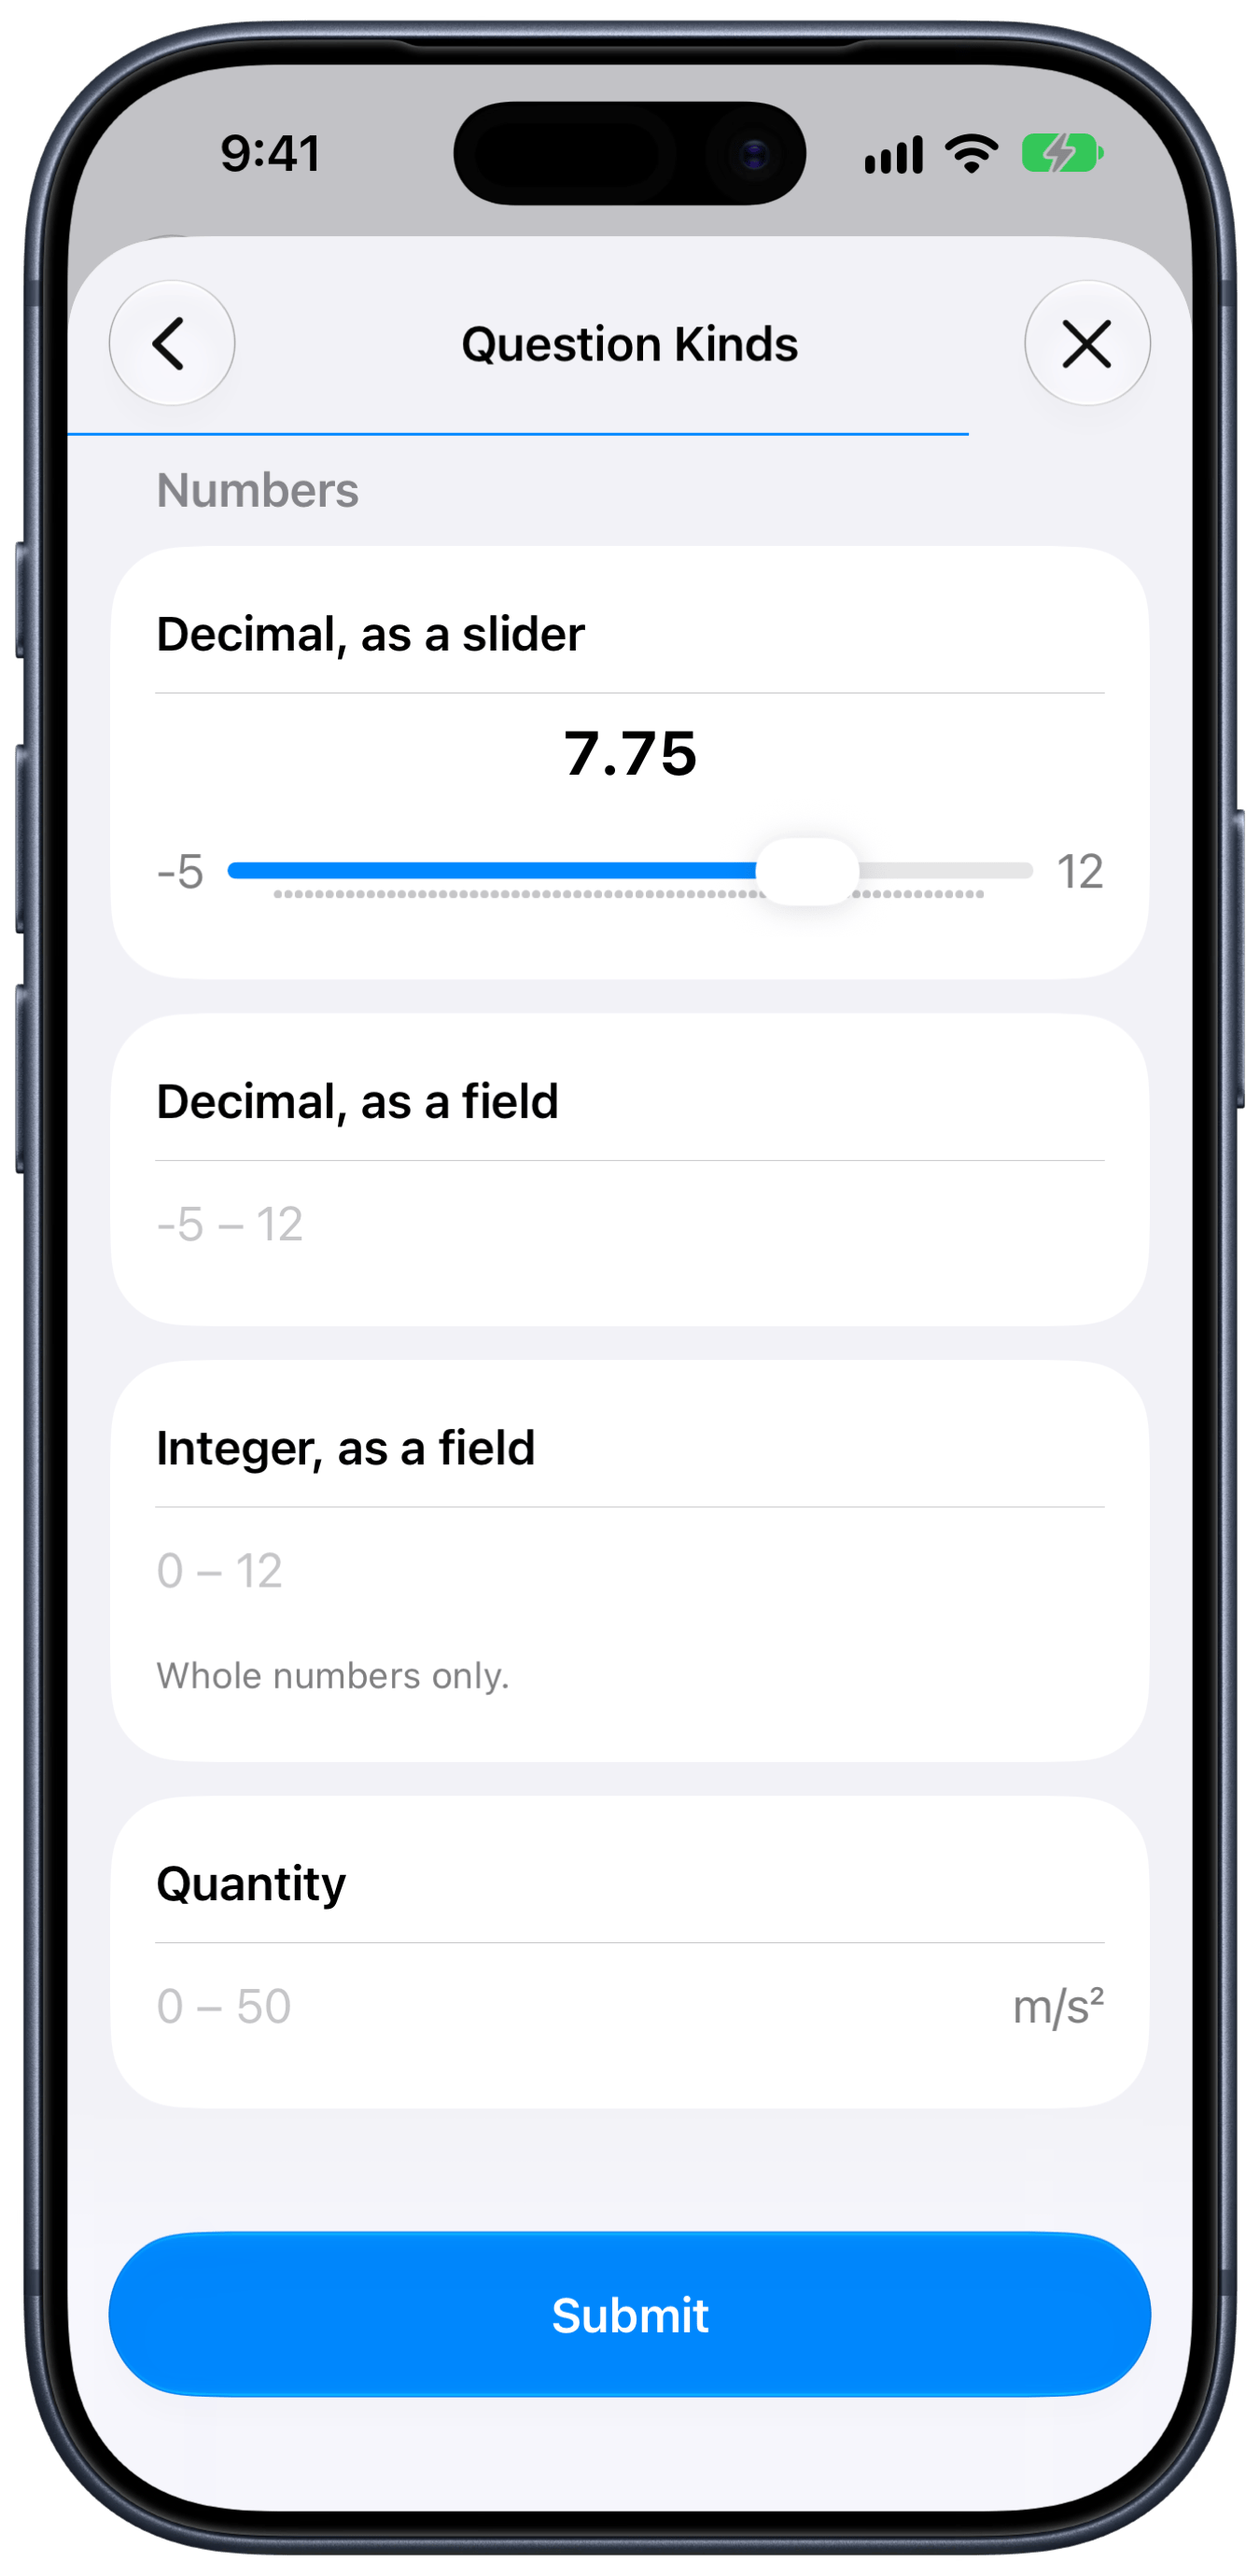
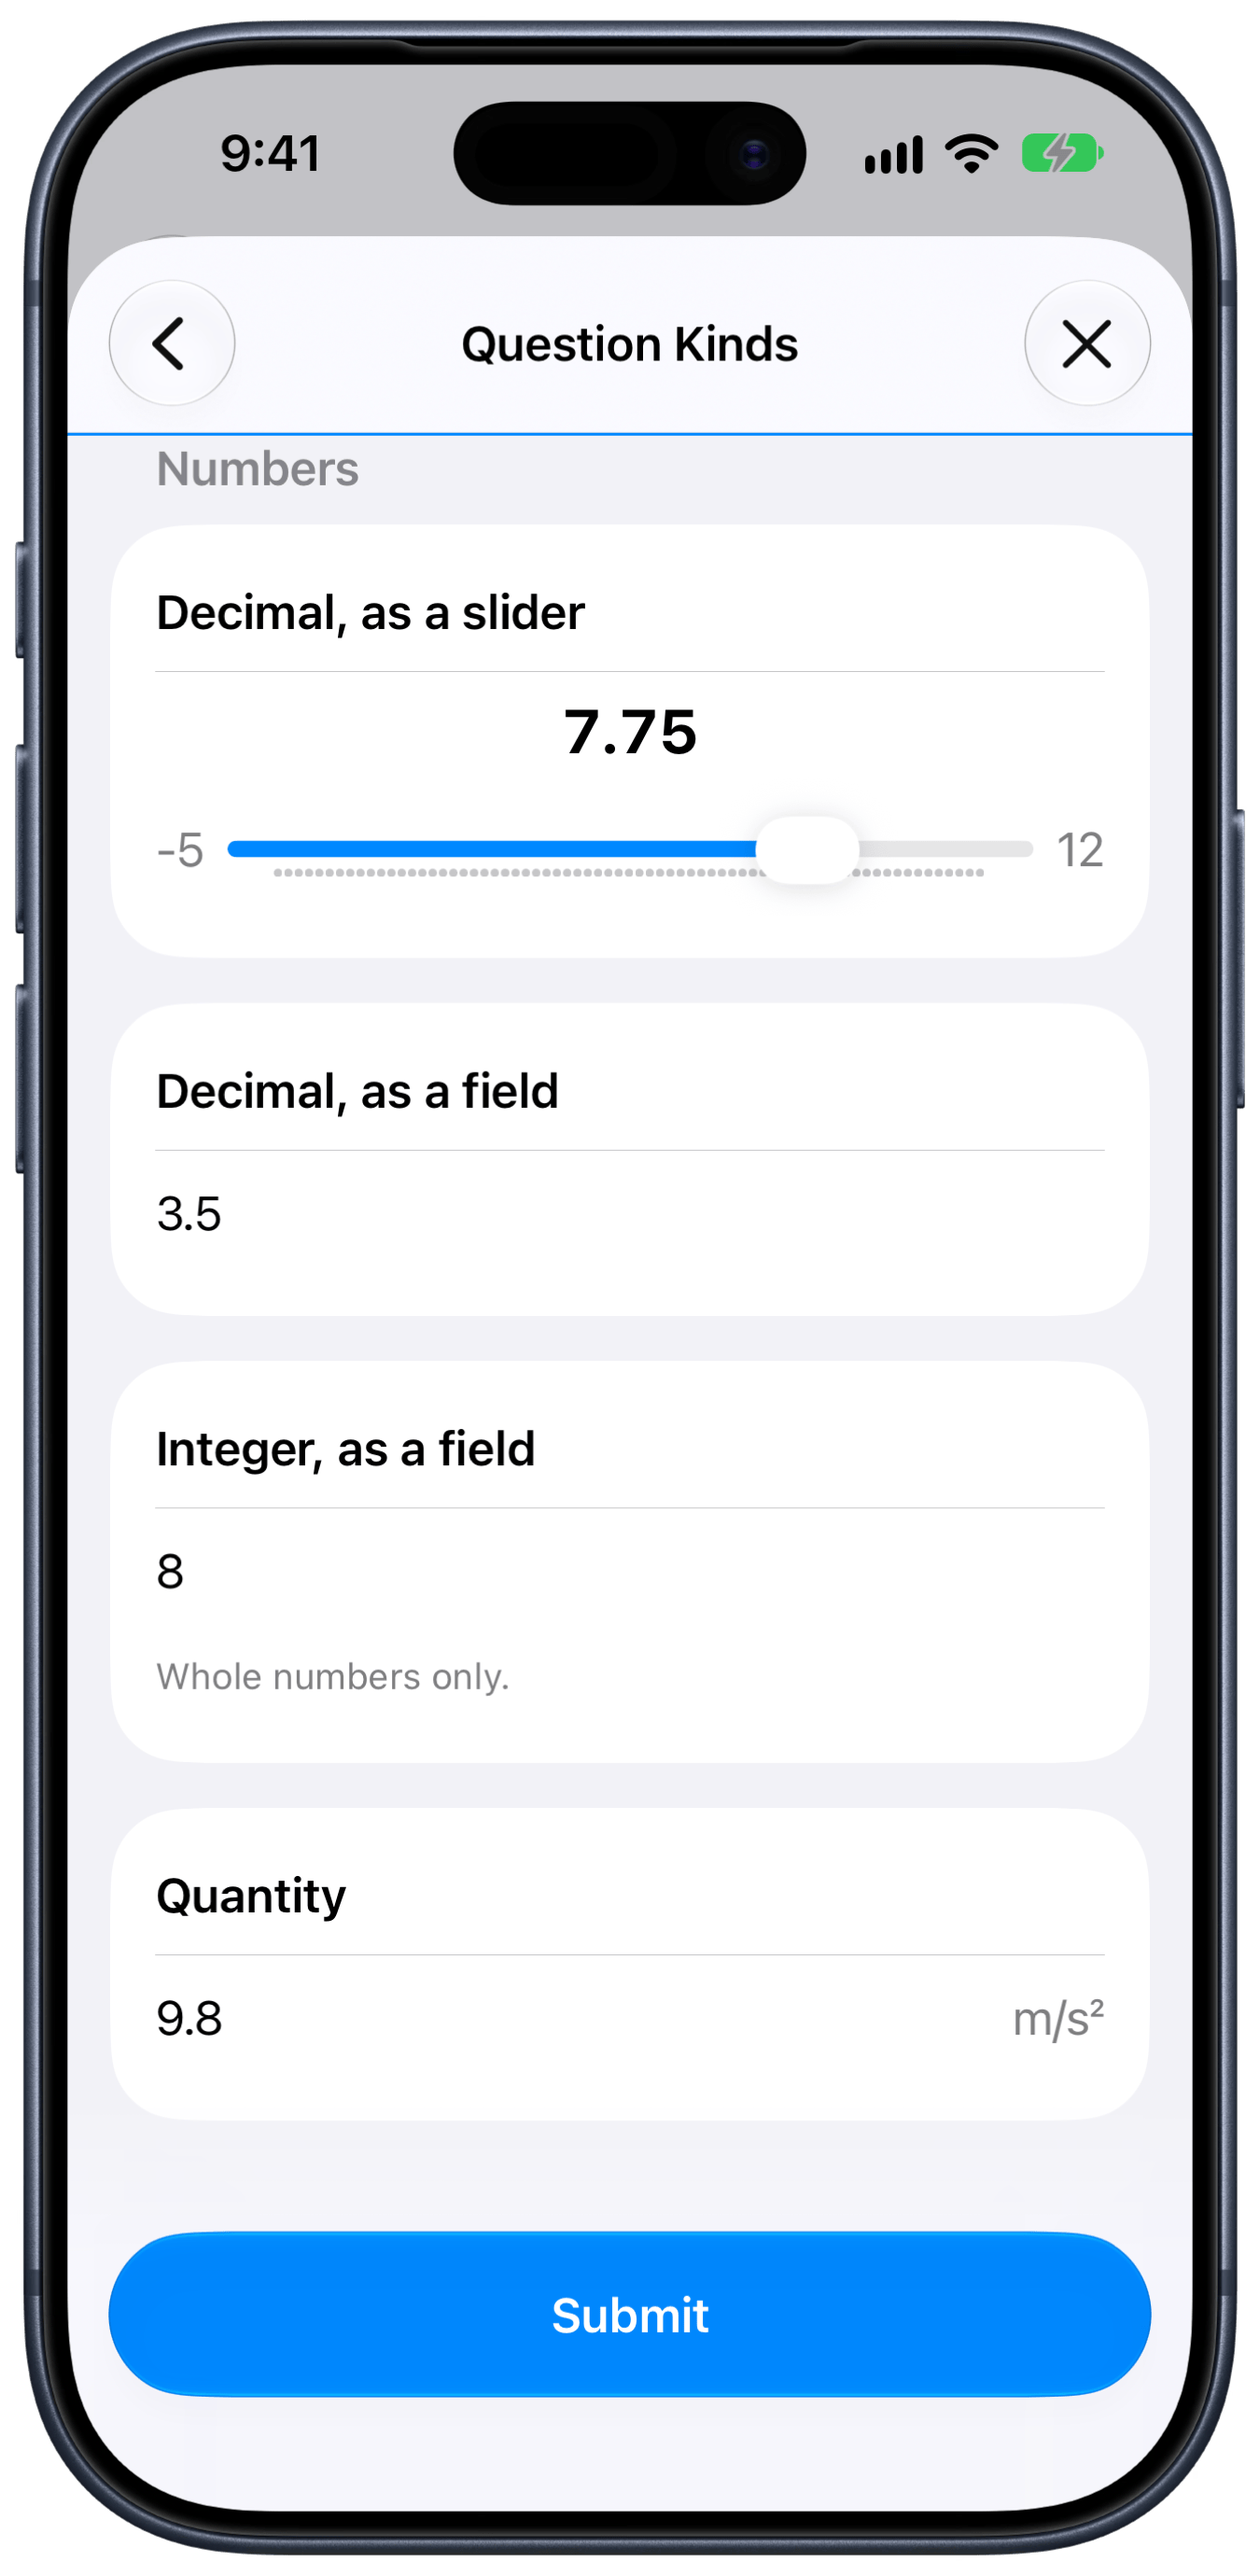
Fill Every Question Kind for the Documentation Pictures

diff --git a/Tests/GroveQuestionnaireTests/UITests/TestAppUITests/DocumentationScreenshots.swift b/Tests/GroveQuestionnaireTests/UITests/TestAppUITests/DocumentationScreenshots.swift
@@ -24,7 +24,7 @@ final class DocumentationScreenshots: TestAppUITests, @unchecked Sendable {
     }
 
     @MainActor
-    func testCaptureDocumentationScreenshots() {
+    func testCaptureDocumentationScreenshots() throws {
         if app.state != .runningForeground {
             app.activate()
         }
@@ -52,7 +52,7 @@ final class DocumentationScreenshots: TestAppUITests, @unchecked Sendable {
         questionnaire.tapPrimaryAction()
         sleep(1)
         capture("Validation")
-        questionnaire.question("daytime-tiredness").select("Every night")
+        questionnaire.question("daytime-tiredness").select("Every day")
         sleep(1)
         capture("Score")
         questionnaire.closeDiscardingAnswers()
@@ -71,11 +71,27 @@ final class DocumentationScreenshots: TestAppUITests, @unchecked Sendable {
         capture("TextAndChoice")
         questionnaire.tapPrimaryAction()
         XCTAssert(questionnaire.question("day").waitUntilAsked())
+        // Opening a pill answers it with today or now; the times are then turned to a morning.
+        _ = questionnaire.question("day").datePicker
+        closePopover()
+        turn(questionnaire.question("moment").datePicker, to: ["7", "30", "AM"])
+        closePopover()
+        let calendar = questionnaire.question("day-and-moment").datePicker
+        // The calendar keeps its time behind a button; tapping it brings the wheels out.
+        let time = calendar.buttons.matching(NSPredicate(format: "label CONTAINS ':'")).firstMatch
+        if time.waitForExistence(timeout: 2) {
+            time.tap()
+            turn(calendar, to: ["7", "45", "AM"])
+        }
+        closePopover()
         sleep(1)
         capture("DatesAndTimes")
         questionnaire.tapPrimaryAction()
         XCTAssert(questionnaire.question("rating").waitUntilAsked())
         questionnaire.question("rating").moveSlider(to: 0.7)
+        try questionnaire.question("decimal").enterNumber(3.5)
+        try questionnaire.question("count").enterNumber(8)
+        try questionnaire.question("acceleration").enterNumber(9.8)
         sleep(1)
         capture("Numbers")
         questionnaire.closeDiscardingAnswers()
@@ -85,13 +101,41 @@ final class DocumentationScreenshots: TestAppUITests, @unchecked Sendable {
         open(.modelValues)
         startExample("Annotate Image")
         XCTAssert(questionnaire.question("t0").waitUntilAsked())
-        sleep(2)
+        app.descendants(matching: .any)["OpenImageAnnotationEditor"].firstMatch.tap()
+        let canvas = app.descendants(matching: .any)["ImageAnnotationCanvas"].firstMatch
+        XCTAssert(canvas.waitForExistence(timeout: 5))
+        app.descendants(matching: .any)["AnnotationRegion:Pain"].firstMatch.tap()
+        // A cross over the left knee.
+        canvas.coordinate(withNormalizedOffset: CGVector(dx: 0.35, dy: 0.45))
+            .press(forDuration: 0.1, thenDragTo: canvas.coordinate(withNormalizedOffset: CGVector(dx: 0.43, dy: 0.55)))
+        canvas.coordinate(withNormalizedOffset: CGVector(dx: 0.43, dy: 0.45))
+            .press(forDuration: 0.1, thenDragTo: canvas.coordinate(withNormalizedOffset: CGVector(dx: 0.35, dy: 0.55)))
+        sleep(1)
         capture("AnnotateImage")
+        app.buttons["Done"].firstMatch.tap()
         questionnaire.closeDiscardingAnswers()
         startExample("Stopwatch")
         XCTAssert(questionnaire.question("t0").waitUntilAsked())
-        sleep(1)
+        app.buttons["StopwatchToggle"].firstMatch.tap()
+        sleep(3)
         capture("CustomKind")
+    }
+
+    /// A popover closes on a tap outside it; the navigation bar is always outside.
+    @MainActor
+    private func closePopover() {
+        app.navigationBars.firstMatch.tap()
+        sleep(1)
+    }
+
+    /// Turns a wheel picker's wheels to `values`, one per wheel, as far as it has wheels.
+    @MainActor
+    private func turn(_ picker: XCUIElement, to values: [String]) {
+        let wheels = picker.pickerWheels
+        _ = wheels.firstMatch.waitForExistence(timeout: 2)
+        for (index, value) in values.enumerated() where index < wheels.count {
+            wheels.element(boundBy: index).adjust(toPickerWheelValue: value)
+        }
     }
 
     /// Announces a state worth a picture; `Scripts/documentation-screenshots.sh` shoots the simulator on this line.

diff --git a/Tests/GroveQuestionnaireTests/UITests/TestApp/Questionnaires/SleepCheckIn.swift b/Tests/GroveQuestionnaireTests/UITests/TestApp/Questionnaires/SleepCheckIn.swift
@@ -40,6 +40,35 @@ enum SleepFrequency: String, ScoredOption {
 }
 
 
+/// How often something happened over the past seven days.
+enum DaytimeFrequency: String, ScoredOption {
+    case never
+    case someDays = "some-days"
+    case mostDays = "most-days"
+    case everyDay = "every-day"
+
+    static let system = URL(string: "https://grovealliance.org/samples/CodeSystem/DaytimeFrequency")
+
+    var title: String {
+        switch self {
+        case .never: "Never"
+        case .someDays: "Some days"
+        case .mostDays: "Most days"
+        case .everyDay: "Every day"
+        }
+    }
+
+    var score: Decimal {
+        switch self {
+        case .never: 0
+        case .someDays: 1
+        case .mostDays: 2
+        case .everyDay: 3
+        }
+    }
+}
+
+
 /// What the participant drank in the three hours before going to bed.
 enum EveningDrink: String, QuestionnaireOption {
     case nothing
@@ -68,7 +97,7 @@ enum SleepCheckIn {
 
     static let fallingAsleep = ChoiceQuestion<SleepFrequency>("falling-asleep", "Lay awake for more than half an hour")
     static let wakingUp = ChoiceQuestion<SleepFrequency>("waking-up", "Woke up in the middle of the night")
-    static let daytimeTiredness = ChoiceQuestion<SleepFrequency>("daytime-tiredness", "Felt tired during the day")
+    static let daytimeTiredness = ChoiceQuestion<DaytimeFrequency>("daytime-tiredness", "Felt tired during the day")
 
     /// Optional because the participant cannot answer it: a required question nobody can
     /// fill in would keep the section from ever completing.

diff --git a/Sources/XCTGroveQuestionnaire/QuestionnaireSheetNavigator+Question.swift b/Sources/XCTGroveQuestionnaire/QuestionnaireSheetNavigator+Question.swift
@@ -351,7 +351,11 @@ extension QuestionnaireSheetNavigator.Question {
         scrollIntoView()
         let picker = app.datePickers.firstMatch
         if !picker.exists {
-            tap(element.buttons.firstMatch)
+            // The row reads as one control, and its pill sits at the trailing end; a tap in the middle lands on
+            // the label.
+            let row = element.buttons.firstMatch
+            navigator.scan { navigator.isReachable(row) }
+            row.coordinate(withNormalizedOffset: CGVector(dx: 0.85, dy: 0.5)).tap()
             _ = picker.waitForExistence(timeout: QuestionnaireSheetNavigator.defaultTimeout)
         }
         return picker

diff --git a/Tests/GroveQuestionnaireTests/UITests/TestAppUITests/SleepCheckInTests.swift b/Tests/GroveQuestionnaireTests/UITests/TestAppUITests/SleepCheckInTests.swift
@@ -69,7 +69,7 @@ final class SleepCheckInTests: TestAppUITests, @unchecked Sendable {
 
         questionnaire.question("falling-asleep").select("Some nights") // 1
         questionnaire.question("waking-up").select("Most nights") // 2
-        questionnaire.question("daytime-tiredness").select("Every night") // 3
+        questionnaire.question("daytime-tiredness").select("Every day") // 3
 
         // The advisory is gated on the score, so its presence is the score being read back.
         XCTAssert(questionnaire.question("advisory").waitUntilAsked())
